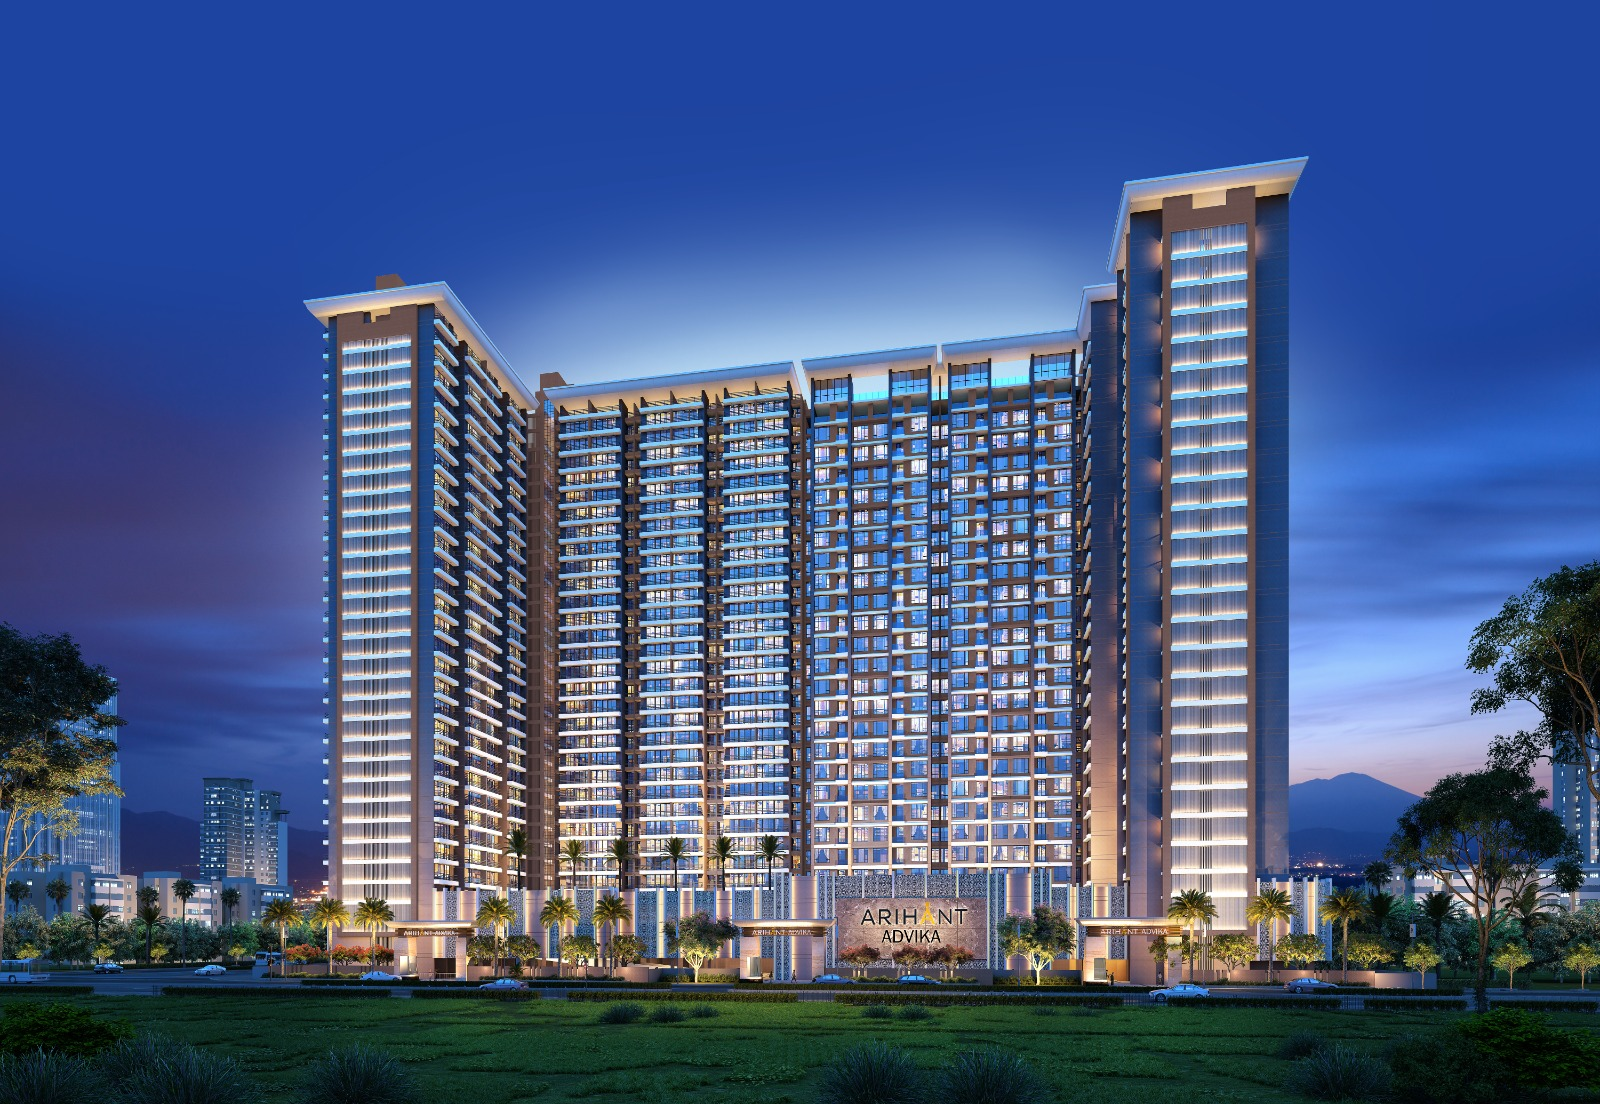
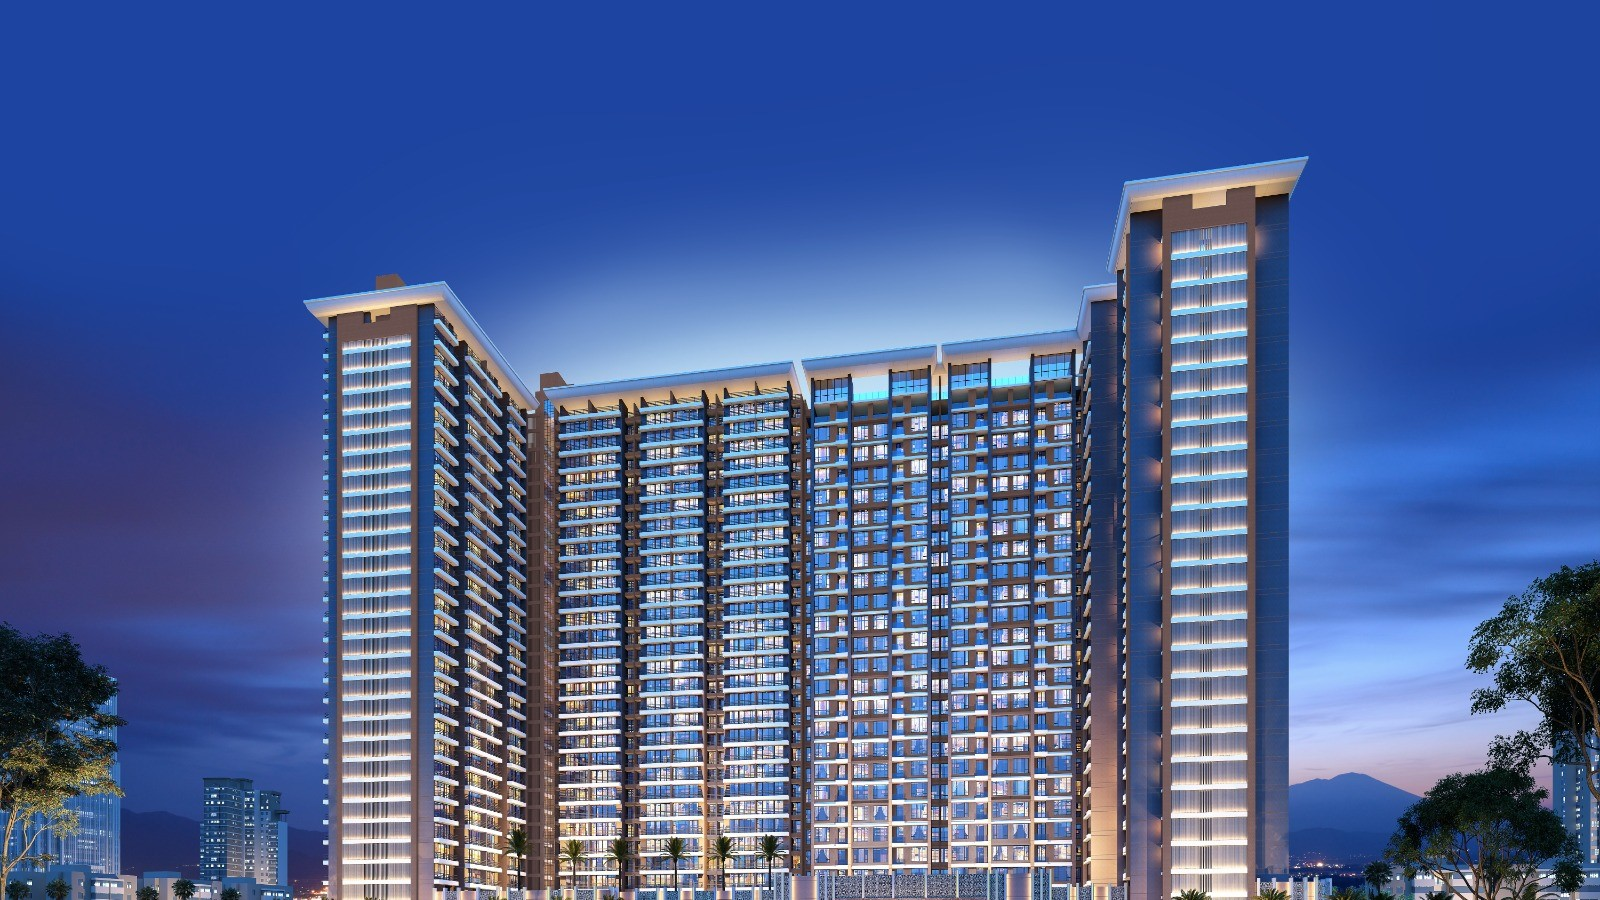
Home img added

diff --git a/src/components/Navbar.tsx b/src/components/Navbar.tsx
@@ -128,7 +128,7 @@ export default function Navbar() {
               src={logo}
               alt="Concept Design Cell"
               className={`
-                h-12 md:h-14 lg:h-16 xl:h-[72px] w-auto object-contain
+                h-16 md:h-[72px] lg:h-[80px] xl:h-[84px] w-auto object-contain
                 transition-all duration-500
                 ${scrolled ? "brightness-110" : ""}
               `}
@@ -262,7 +262,7 @@ export default function Navbar() {
                 <img
                   src={logo}
                   alt="Concept Design Cell"
-                  className="h-12 md:h-14 w-auto object-contain"
+                  className="h-14 md:h-16 lg:h-20 w-auto object-contain"
                 />
               </Link>
               <button
